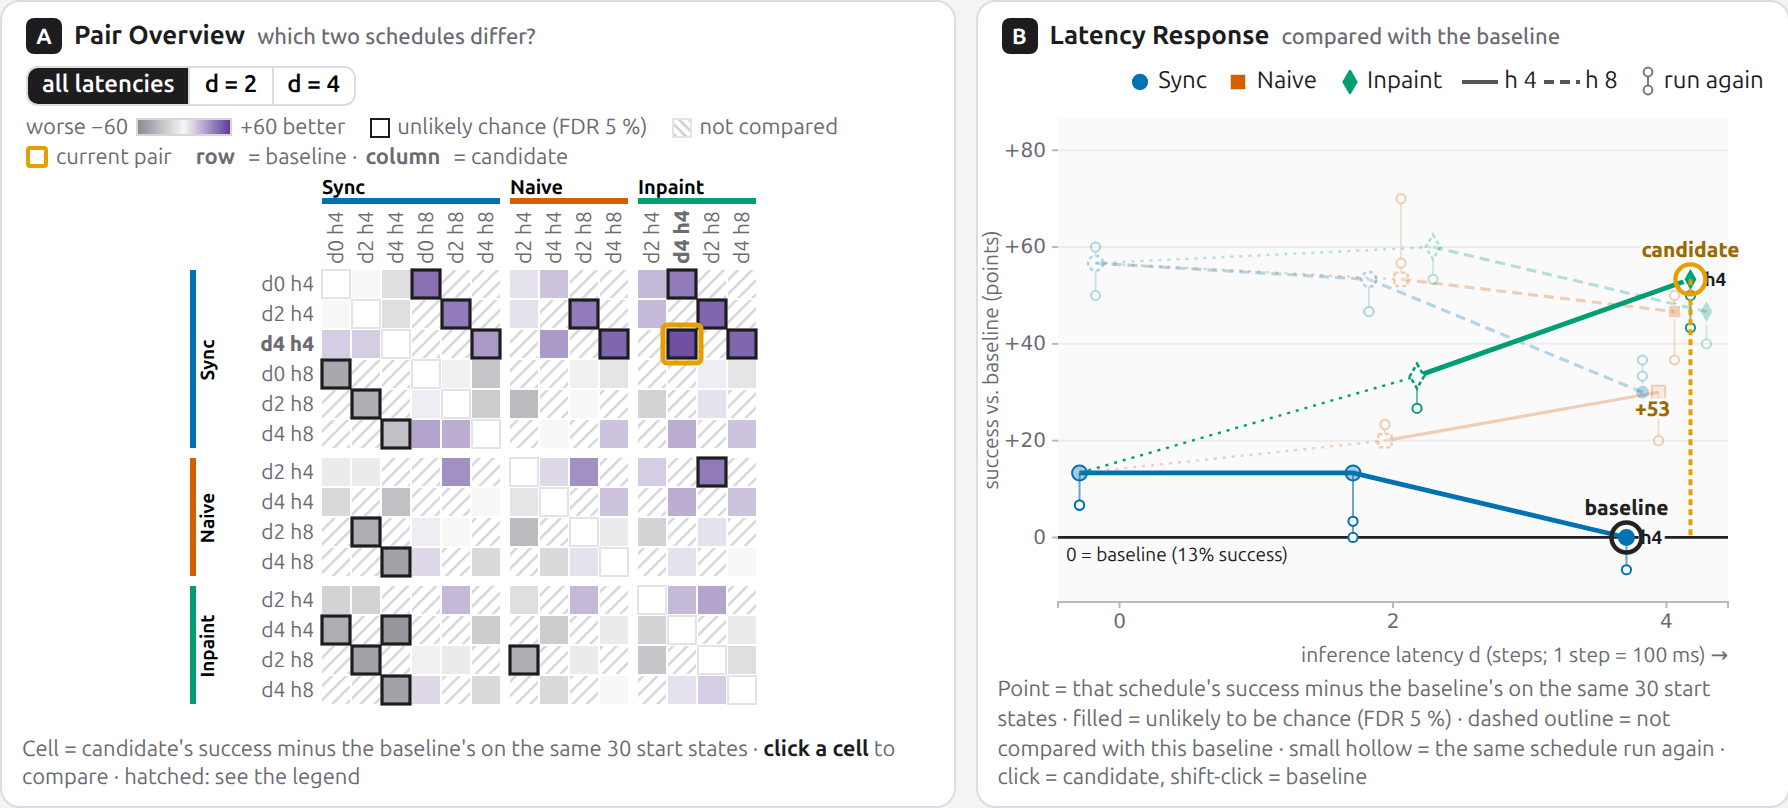
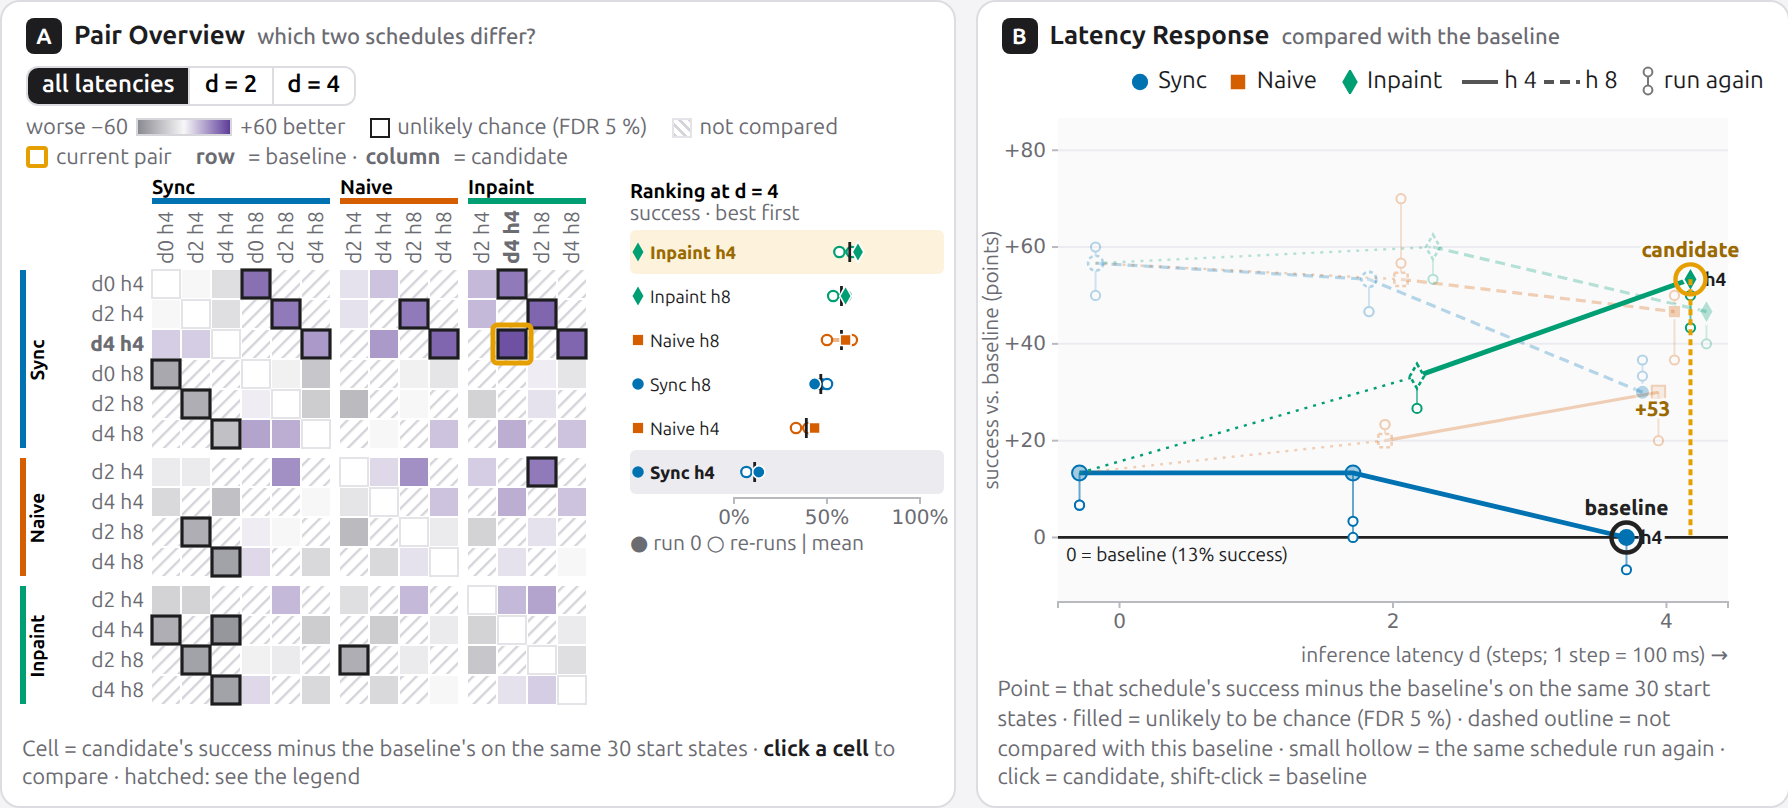
A: ranking strip of the schedules at one latency; header without pair controls
- right of the matrix, the schedules at the pair's latency (or "my latency") are ranked by the current question in absolute terms: run 0 filled, re-runs hollow, sorted by the mean of the three runs; a row click sets the candidate
- header: Baseline/Candidate name chips and the swap button removed; the pair is chosen only in A
- guide names the ranking; tests for the strip and for the header without pair controls

Changed region(s): [[0.0, 0.2166, 0.5537, 0.8973], [0.4614, 0.4022, 0.4922, 0.4332]]

diff --git a/src/js/views/pairs.js b/src/js/views/pairs.js
@@ -7,7 +7,7 @@
 // cost questions the 95 % interval of the paired difference excludes 0. Click a cell = load that pair.
 import { state, update, bus } from "../state.js";
 import { DATA, STRATEGIES, HORIZONS, LATENCIES, label, aggregate, comparable, whyNot, reruns, rerunFlips } from "../data.js";
-import { COLOR, STRAT_COLOR, METRICS, fmtMetric, showTip, hideTip, size } from "../util.js";
+import { COLOR, STRAT_COLOR, STRAT_SYMBOL, METRICS, fmtMetric, showTip, hideTip, size } from "../util.js";
 
 const BETTER = "#5e3c99", WORSE = "#8a8a92", MID = "#f7f7f8";
 const ORDER_H = [4, 8];
@@ -100,7 +100,9 @@ function render() {
       : `Cell = how much less (purple) or more (grey) the candidate pays: <b>${Mt0.label}</b> · no frames: costs are not tested`} · <b>click a cell</b> to compare · hatched: see the legend`));
   const { w, h } = size(root.node());
   svg.attr("width", w).attr("height", h);
-  const m = { l: 70, t: 50, r: 6, b: 4 };
+  // the ranking strip takes the right side of the panel when there is room for it
+  const SW = w >= 380 ? Math.max(132, Math.min(196, Math.floor(w * 0.36))) : 0;
+  const m = { l: 70, t: 50, r: 6 + SW, b: 4 };
   const gaps = 4 * (STRATEGIES.length - 1);
   const cs = Math.max(7, Math.floor(Math.min((w - m.l - m.r - gaps) / n, (h - m.t - m.b - gaps) / n)));
   m.l += Math.max(0, Math.floor((w - m.l - m.r - n * cs - gaps) / 2));  // centre the matrix in a wide panel
@@ -168,7 +170,62 @@ function render() {
     .attr("x", (q) => X(q.c.id) - 2.5).attr("y", (q) => Y(q.r.id) - 2.5).attr("width", cs + 4).attr("height", cs + 4)
     .attr("fill", "none").attr("stroke", COLOR.cand).attr("stroke-width", 2.5).attr("rx", 2);
 
+  ranking(w - SW + 10, w - 4, m.t - 38, h - 4, SW > 0);
 
+
+}
+
+// Ranking strip: the schedules at one latency (the latency chosen in "my latency", else the pair's),
+// sorted by the current question, in absolute terms. A answers "how do two schedules differ"; the
+// strip answers "which one is best at my latency". Each row shows all three runs (filled = run 0,
+// hollow = re-runs, tick = their mean) and is sorted by the mean of the three, so that one lucky run
+// does not decide the order; rows whose runs overlap have no clear order. All start states are used.
+function ranking(x0, x1, top, bottom, on) {
+  const g = svg.selectAll("g.rank").data(on ? [0] : []).join("g").attr("class", "rank");
+  if (!on) return;
+  const R = DATA.schedById.get(state.ref), Cn = DATA.schedById.get(state.cand);
+  const d = state.dfocus ?? (R.latency || Cn.latency || LATENCIES[LATENCIES.length - 1]);
+  const Mt = METRICS[state.metric], up = isSuccess();
+  const rows = DATA.schedules.filter((q) => !q.replicate && q.latency === d).map((q) => {
+    const runs = [q.schedule, ...reruns(q.schedule)].map((id) => aggregate(id, state.metric, null)?.v).filter((v) => v !== null && v !== undefined);
+    return { id: q.schedule, s: q.strategy, h: q.horizon, runs, mean: d3.mean(runs) };
+  }).sort((a, b) => (up ? b.mean - a.mean : a.mean - b.mean));
+  const lw = 52, ax0 = x0 + lw, ax1 = x1 - 12;
+  const hi = up ? 1 : d3.max(rows.flatMap((r) => r.runs)) * 1.05 || 1;
+  const x = d3.scaleLinear().domain([0, hi]).range([ax0, ax1]);
+  const rh = Math.max(13, Math.min(22, (bottom - top - 44) / Math.max(1, rows.length)));
+  const y0 = top + 18;
+  g.selectAll("text.rt").data([0]).join("text").attr("class", "rt").attr("x", x0).attr("y", top + 2).attr("font-size", 10).attr("font-weight", 700)
+    .text(`Ranking at d = ${d}${state.dfocus !== null ? " (my latency)" : ""}`);
+  g.selectAll("text.rs").data([0]).join("text").attr("class", "rs axis-title").attr("x", x0).attr("y", top + 13).attr("font-size", 9)
+    .text(`${up ? "success" : Mt.btn.toLowerCase()} · ${up ? "best" : "least"} first`);
+  const row = g.selectAll("g.rr").data(rows, (r) => r.id).join((en) => {
+    const q = en.append("g").attr("class", "rr").style("cursor", "pointer");
+    q.append("rect").attr("class", "hit"); q.append("path").attr("class", "sym"); q.append("text").attr("class", "lb");
+    q.append("line").attr("class", "span"); q.append("g").attr("class", "re"); q.append("line").attr("class", "mn"); q.append("path").attr("class", "r0");
+    return q;
+  }).attr("transform", (r, i) => `translate(0,${y0 + i * rh + rh / 2})`);
+  row.select(".hit").attr("x", x0).attr("y", -rh / 2).attr("width", x1 - x0).attr("height", rh)
+    .attr("fill", (r) => (r.id === state.cand ? "#fdf3dc" : r.id === state.ref ? "#ececf0" : "transparent")).attr("rx", 3);
+  row.select(".sym").attr("transform", `translate(${x0 + 4},0)`).attr("d", (r) => d3.symbol(STRAT_SYMBOL[r.s], 26)()).attr("fill", (r) => STRAT_COLOR[r.s]);
+  row.select(".lb").attr("x", x0 + 10).attr("y", 3.5).attr("font-size", 9)
+    .attr("font-weight", (r) => (r.id === state.ref || r.id === state.cand ? 800 : 400))
+    .attr("fill", (r) => (r.id === state.cand ? "#9a6a00" : COLOR.ink))
+    .text((r) => `${{ sync: "Sync", naive: "Naive", inpaint: "Inpaint" }[r.s]} h${r.h}`);
+  row.select(".span").attr("x1", (r) => x(d3.min(r.runs))).attr("x2", (r) => x(d3.max(r.runs))).attr("stroke", (r) => STRAT_COLOR[r.s]).attr("stroke-opacity", 0.45).attr("stroke-width", 2);
+  row.select(".re").selectAll("circle").data((r) => r.runs.slice(1).map((v) => ({ v, s: r.s }))).join("circle")
+    .attr("cx", (q) => x(q.v)).attr("r", 2.6).attr("fill", "#fff").attr("stroke", (q) => STRAT_COLOR[q.s]).attr("stroke-width", 1.1);
+  row.select(".mn").attr("x1", (r) => x(r.mean)).attr("x2", (r) => x(r.mean)).attr("y1", -5).attr("y2", 5).attr("stroke", COLOR.ink).attr("stroke-width", 1.4);
+  row.select(".r0").attr("transform", (r) => `translate(${x(r.runs[0])},0)`).attr("d", (r) => d3.symbol(STRAT_SYMBOL[r.s], 30)()).attr("fill", (r) => STRAT_COLOR[r.s]).attr("stroke", "#fff").attr("stroke-width", 0.8);
+  row.on("click", (ev, r) => { hideTip(); update({ cand: r.id }); })
+    .on("mousemove", (ev, r) => showTip(ev, `<b>${label(r.id)}</b><br><span class="k">${Mt.label}, all ${DATA.seeds.length} start states:</span><br>run 0 ${fmtMetric(state.metric, r.runs[0])}${r.runs.length > 1 ? ` · re-runs ${r.runs.slice(1).map((v) => fmtMetric(state.metric, v)).join(", ")} · mean ${fmtMetric(state.metric, r.mean)}` : ""}<br><span class="k">${comparable(state.ref, r.id) ? "click = use as candidate" : "not compared with the current baseline: click a cell in A to change both"}</span>`))
+    .on("mouseleave", hideTip);
+  const yb = y0 + rows.length * rh + 2;
+  g.selectAll("g.rax").data([0]).join("g").attr("class", "axis rax").attr("transform", `translate(0,${yb})`)
+    .call(d3.axisBottom(x).tickValues(up ? [0, 0.5, 1] : x.ticks(3)).tickSize(3).tickFormat((v) => (Mt.pct ? `${Math.round(v * 100)}%` : `${v}`)))
+    .call((q) => q.select(".domain").attr("stroke", "#c9c9cf"));
+  g.selectAll("text.rn").data([0]).join("text").attr("class", "rn axis-title").attr("x", x0).attr("y", Math.min(bottom, yb + 26)).attr("font-size", 8.5)
+    .text("● run 0  ○ re-runs  | mean");
 }
 
 // Every comparable unordered pair of schedules (49 of the 91 for 14, see data.comparable) is one exact

diff --git a/src/index.html b/src/index.html
@@ -15,12 +15,6 @@
   </div>
   <div class="tasksw"><span class="lead">task</span><span class="seg" id="taskSeg"></span></div>
   <div class="tasksw" title="What A, B and C show: the outcome, or one of the three costs a schedule can pay for latency"><span class="lead">show</span><span class="seg" id="metricSeg"></span></div>
-  <div class="pickers" title="The pair being compared. Choose it in the Pair Overview (A): a cell sets both, a row label the baseline, a column label the candidate">
-    <span class="lead">comparing <span class="hint">(pick a cell in A)</span></span>
-    <span class="chip ref"><span class="dot"></span>Baseline&nbsp;<span class="nm" id="refName"></span></span>
-    <button id="swapBtn" class="icon" title="Swap baseline and candidate">⇄</button>
-    <span class="chip cand"><span class="dot"></span>Candidate&nbsp;<span class="nm" id="candName"></span></span>
-  </div>
   <div class="actions">
     <button id="helpBtn">? Guide</button>
     <button id="resetBtn">↺ Reset</button>
@@ -83,7 +77,7 @@
     <p>A robot policy plans 16 moves at a time (a <b>chunk</b>) and needs time <i>d</i> (latency, in steps of 100 ms) to compute each plan; the robot executes the first <i>h</i> moves (<b>horizon</b> 4 or 8) and then switches to the next plan. <span class="tS">Sync</span> waits while it thinks; <span class="tN">naive async</span> keeps moving and switches plans abruptly; <span class="tI">inpaint async</span> keeps moving and makes the new plan continue the old one (the start of the new plan is filled in from the old one).
       Every <b>schedule</b> (strategy × latency <i>d</i> × horizon <i>h</i>) was run from the <b>same 30 start states</b>, on two tasks: <b>PushT</b> (push a T-block onto a goal) and <b>Catch the ball</b> (touch a rolling ball within 8 s).</p>
     <ol>
-      <li><b>A Pair Overview</b>, start here: each cell compares two schedules (row = baseline, column = candidate). <span style="color:#5e3c99;font-weight:700">Purple</span> = the candidate succeeds more often on the same start states, grey = less. Compared are schedules at the same latency (a choice you can make), the same strategy and <i>h</i> at two latencies (what more latency costs), and any schedule against <i>d</i> = 0 at the same <i>h</i> (at <i>d</i> = 0 all strategies are the same). The rest is hatched: it mixes two causes. On PushT, <i>h</i> alone matters a lot (sync at <i>d</i> = 0: 27 % at <i>h</i> = 4, 70 % at <i>h</i> = 8), which is why <i>h</i> is only compared with the same <i>h</i> across latencies. Framed = still unlikely to be chance after correcting for the 49 comparisons (false discovery rate 5 %). <b>Click a cell</b> to compare that pair.</li>
+      <li><b>A Pair Overview</b>, start here: each cell compares two schedules (row = baseline, column = candidate). <span style="color:#5e3c99;font-weight:700">Purple</span> = the candidate succeeds more often on the same start states, grey = less. Compared are schedules at the same latency (a choice you can make), the same strategy and <i>h</i> at two latencies (what more latency costs), and any schedule against <i>d</i> = 0 at the same <i>h</i> (at <i>d</i> = 0 all strategies are the same). The rest is hatched: it mixes two causes. On PushT, <i>h</i> alone matters a lot (sync at <i>d</i> = 0: 27 % at <i>h</i> = 4, 70 % at <i>h</i> = 8), which is why <i>h</i> is only compared with the same <i>h</i> across latencies. Framed = still unlikely to be chance after correcting for the 49 comparisons (false discovery rate 5 %). <b>Click a cell</b> to compare that pair. Right of the matrix, the <b>ranking</b> lists the schedules at one latency (the pair's, or the one chosen in <i>d</i> = 2 / 4) by their absolute value in all three runs: click a row to make it the candidate.</li>
       <li><b>B</b>: every schedule against the chosen baseline (0 = baseline), by latency <i>d</i> and horizon <i>h</i>. Small hollow marks = the same schedule simply run again: the spread that chance alone produces.</li>
       <li><b>C</b>: the 30 start states of that pair, the ones that flip first. Narrow cells = the same schedule run again; <b>≈</b> = the outcome is not the same in every run. Right: what each schedule paid there (idle time, outdated plan, or jumps). Click a row to replay it.</li>
       <li><b>D</b>: the replay, baseline and candidate on one board, opened at the moment that most likely explains the pair: the plan being executed, where things were when it was planned, and jumps when the plan switches.</li>

diff --git a/src/css/style.css b/src/css/style.css
@@ -24,16 +24,7 @@ button.on { background: var(--ink); color: #fff; border-color: var(--ink); }
 .brand { display: flex; align-items: baseline; gap: 10px; min-width: 0; }
 .logo { font-size: 20px; font-weight: 800; letter-spacing: -0.4px; }
 .subtitle { color: var(--muted); white-space: nowrap; overflow: hidden; text-overflow: ellipsis; }
-.pickers { display: flex; align-items: center; gap: 8px; margin-left: auto; }
-.chip { display: inline-flex; align-items: center; gap: 4px; border: 2px solid; border-radius: 16px; padding: 2px 4px 2px 10px; font-weight: 700; }
-.chip { padding-right: 10px; white-space: nowrap; }
-.chip .nm { font-weight: 600; }
-.pickers .lead { color: var(--muted); font-size: 11.5px; white-space: nowrap; }
-.chip .role { font-weight: 500; font-size: 11px; color: var(--muted); }
-.chip .dot { width: 10px; height: 10px; border-radius: 50%; display: inline-block; }
-.chip.ref { border-color: var(--ref); } .chip.ref .dot { background: var(--ref); }
-.chip.cand { border-color: var(--cand); } .chip.cand .dot { background: var(--cand); }
-.actions { display: flex; gap: 6px; }
+.actions { display: flex; gap: 6px; margin-left: auto; }
 
 body { min-width: 1280px; }  /* the five views need 1280 px; narrower windows scroll sideways instead of clipping */
 #app {
@@ -119,9 +110,8 @@ body { min-width: 1280px; }  /* the five views need 1280 px; narrower windows sc
 .tasksw .seg button:last-child { border-right: none; }
 .tasksw .seg button.on { background: #1d1d1f; color: #fff; }
 .tasksw .seg button, #topbar .actions button { white-space: nowrap; }
-.tasksw { flex: none; } .pickers, .actions { flex: none; }
+.tasksw, .actions { flex: none; }
 
-.pickers .hint { color: #5e3c99; }
 .controls .sw.okb { background: #222; border-color: #222; } .controls .sw.okc { background: #E69F00; border-color: #E69F00; margin-right: 3px; }
 /* A's legend: diverging ramp + frame + current pair, in one line above the matrix */
 .controls .plgwrap { display: inline-flex; flex-wrap: wrap; gap: 2px 10px; }
@@ -142,5 +132,5 @@ body { min-width: 1280px; }  /* the five views need 1280 px; narrower windows sc
 .controls .lead2 { font-size: 12px; }
 .controls .legend .li { white-space: nowrap; }
 .note.key .k-mot { display: inline-block; width: 12px; height: 8px; background: #dcdce2; vertical-align: -1px; margin-right: 3px; }
-@media (max-width: 1420px) { .brand .subtitle, .tasksw .lead, .pickers .lead { display: none; } }
+@media (max-width: 1420px) { .brand .subtitle, .tasksw .lead { display: none; } }
 .brand .logo { flex: none; }

diff --git a/src/js/main.js b/src/js/main.js
@@ -1,5 +1,5 @@
 import { state, update, bus, DEFAULTS, guards } from "./state.js";
-import { DATA, TASKS, loadBase, loadRun, label, comparable, atLatency, whyNot } from "./data.js";
+import { DATA, TASKS, loadBase, loadRun, comparable, atLatency, whyNot } from "./data.js";
 import { METRICS } from "./util.js";
 import { initResponse, resizeResponse } from "./views/response.js";
 import { initPairs, resizePairs } from "./views/pairs.js";
@@ -39,12 +39,6 @@ function keepComparable(patch, st) {
 const shortName = (id) => { const q = DATA.schedById.get(id); return `${{ sync: "Sync", naive: "Naive", inpaint: "Inpaint" }[q.strategy]} d${q.latency} h${q.horizon}`; };
 guards.push(keepComparable);
 
-// The header only names the current pair; the pair is chosen in the Pair Overview (A), not looked up in a menu.
-function fillPickers() {
-  const nm = (id) => { const q = DATA.schedById.get(id); return `${{ sync: "Sync", naive: "Naive async", inpaint: "Inpaint async" }[q.strategy]} · d=${q.latency} · h=${q.horizon}`; };
-  d3.select("#refName").text(nm(state.ref)).attr("title", label(state.ref));
-  d3.select("#candName").text(nm(state.cand)).attr("title", label(state.cand));
-}
 
 // Switching the task reloads both data tables; the same schedule ids exist in both tasks, so the
 // compared pair is kept and the views re-render because "task" changed.
@@ -55,7 +49,6 @@ async function setTask(task) {
   const keep = (id, dflt) => (DATA.schedById.has(id) ? id : dflt);
   const ref = keep(state.ref, DEFAULTS.ref), cand = keep(state.cand, DEFAULTS.cand);
   Object.assign(state, { ref, cand });
-  fillPickers();
   update({ task, seed: firstFlip(ref, cand), win: null, brushed: null, hoverSeed: null, hoverChunk: null });
 }
 
@@ -76,12 +69,11 @@ function initMetric() {
   bus.on("change.metric", (keys) => { if (keys.has("metric")) mark(); });
 }
 
+// The pair is chosen only in the Pair Overview (A) and its ranking strip; the header has no pair controls.
 function initPickers() {
-  fillPickers();
   bus.on("change.pickers", (keys) => {
-    if (keys.has("ref") || keys.has("cand")) { loadRun(state.ref); loadRun(state.cand); fillPickers(); }
+    if (keys.has("ref") || keys.has("cand")) { loadRun(state.ref); loadRun(state.cand); }
   });
-  d3.select("#swapBtn").on("click", () => update({ ref: state.cand, cand: state.ref }));
   d3.select("#resetBtn").on("click", () => {
     update({ ...DEFAULTS, task: state.task, seed: firstFlip(DEFAULTS.ref, DEFAULTS.cand), brushed: null });
   });

diff --git a/scripts/ui_test.py b/scripts/ui_test.py
@@ -67,7 +67,7 @@ with sync_playwright() as p:
     pg.evaluate("window.LagLens.update({ref:'sync_d2_h4', cand:'inpaint_d2_h4'})"); pg.evaluate("window.LagLens.update({cand:'inpaint_d4_h8'})"); pg.wait_for_timeout(200)
     ok("a candidate that is not comparable with the baseline is refused, nothing is moved, and A says why",
        S("ref") == "sync_d2_h4" and S("cand") == "inpaint_d2_h4" and "not compared with the current baseline" in pg.inner_text("#pairNote"))
-    ok("the header has no look-up menus: it only names the pair chosen in A", pg.locator("#topbar select").count() == 0 and "Inpaint async" in pg.inner_text("#candName"))
+    ok("the header has no pair controls: no menus, no name chips, no swap (the pair is chosen in A)", pg.locator("#topbar select, #candName, #refName, #swapBtn").count() == 0)
     pg.evaluate("window.LagLens.update({seed:1003})"); pg.wait_for_timeout(200)
     ok("the refusal notice is cleared by the next deliberate change (here: another start state)", "not compared with the current" not in pg.inner_text("#pairNote"))
     pg.evaluate("window.LagLens.update({cand:'inpaint_d4_h8'})"); pg.wait_for_timeout(200)
@@ -173,9 +173,16 @@ with sync_playwright() as p:
     ok("D draws brushed window path", pg.evaluate("document.querySelector('#workspace .pathWin').getAttribute('d')") is not None)
     pg.keyboard.press("Escape"); ok("Esc clears window", S("win") is None)
 
-    # header: swap, pickers, reset, resize, URL state
-    r0, c0 = S("ref"), S("cand")
-    pg.click("#swapBtn"); ok("swap R/C", S("ref") == c0 and S("cand") == r0)
+    # A's ranking strip, reset, resize, URL state
+    pg.evaluate("window.LagLens.update({ref:'sync_d4_h4', cand:'inpaint_d4_h4', dfocus:null, metric:'success_rate'})"); pg.wait_for_timeout(300)
+    rk = pg.evaluate("""[...document.querySelectorAll('#pairs g.rr')].map(g=>{const r=d3.select(g).datum(); return [r.id, r.mean, r.runs.length]})""")
+    ok("A ranks the 6 schedules at the pair's latency (d = 4) by the mean success of their 3 runs, best first",
+       len(rk) == 6 and all(x[0].split("_")[1] == "d4" and x[2] == 3 for x in rk) and all(rk[i][1] >= rk[i+1][1] for i in range(5)))
+    pg.locator("#pairs g.rr").nth(1).click(force=True); pg.wait_for_timeout(200)
+    ok("a row of the ranking sets the candidate", S("cand") == rk[1][0] and S("ref") == "sync_d4_h4")
+    pg.evaluate("window.LagLens.update({dfocus:2})"); pg.wait_for_timeout(200)
+    ok("the ranking follows 'my latency'", all("_d2_" in pg.evaluate("[...document.querySelectorAll('#pairs g.rr')].map(g=>d3.select(g).datum().id)")[i] for i in range(6)))
+    pg.evaluate("window.LagLens.update({dfocus:null})")
     pg.evaluate("window.LagLens.update({ref:'sync_d4_h8', cand:'naive_d4_h8'})")
     pg.locator("#pairs text.colL").nth(3).click(force=True); ok("a column label in A sets only the candidate", S("cand") == "sync_d0_h8" and S("ref") == "sync_d4_h8")
     pg.click("#resetBtn"); ok("reset", S("ref") == "sync_d4_h4" and S("cand") == "inpaint_d4_h4" and S("metric") == "success_rate")
